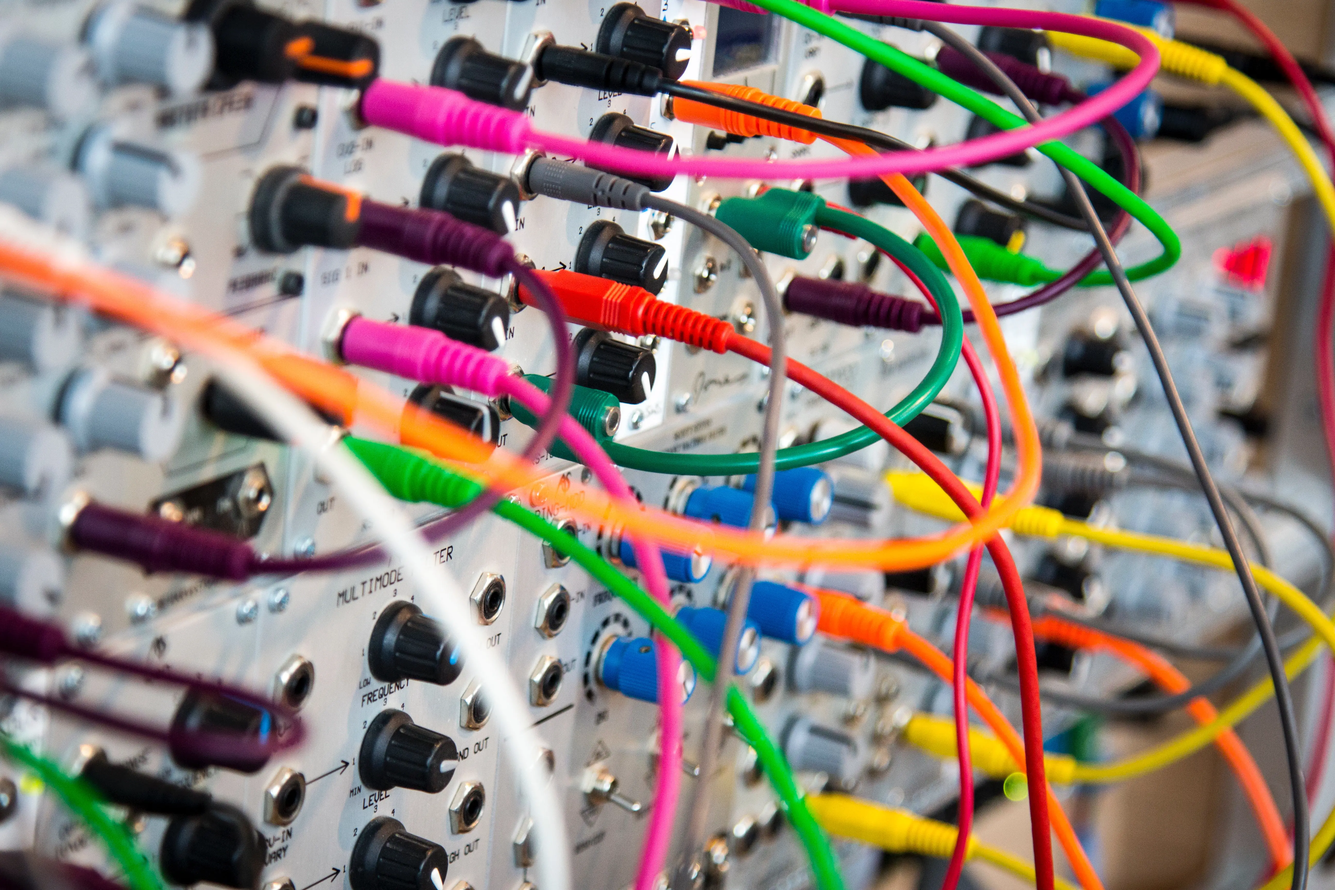
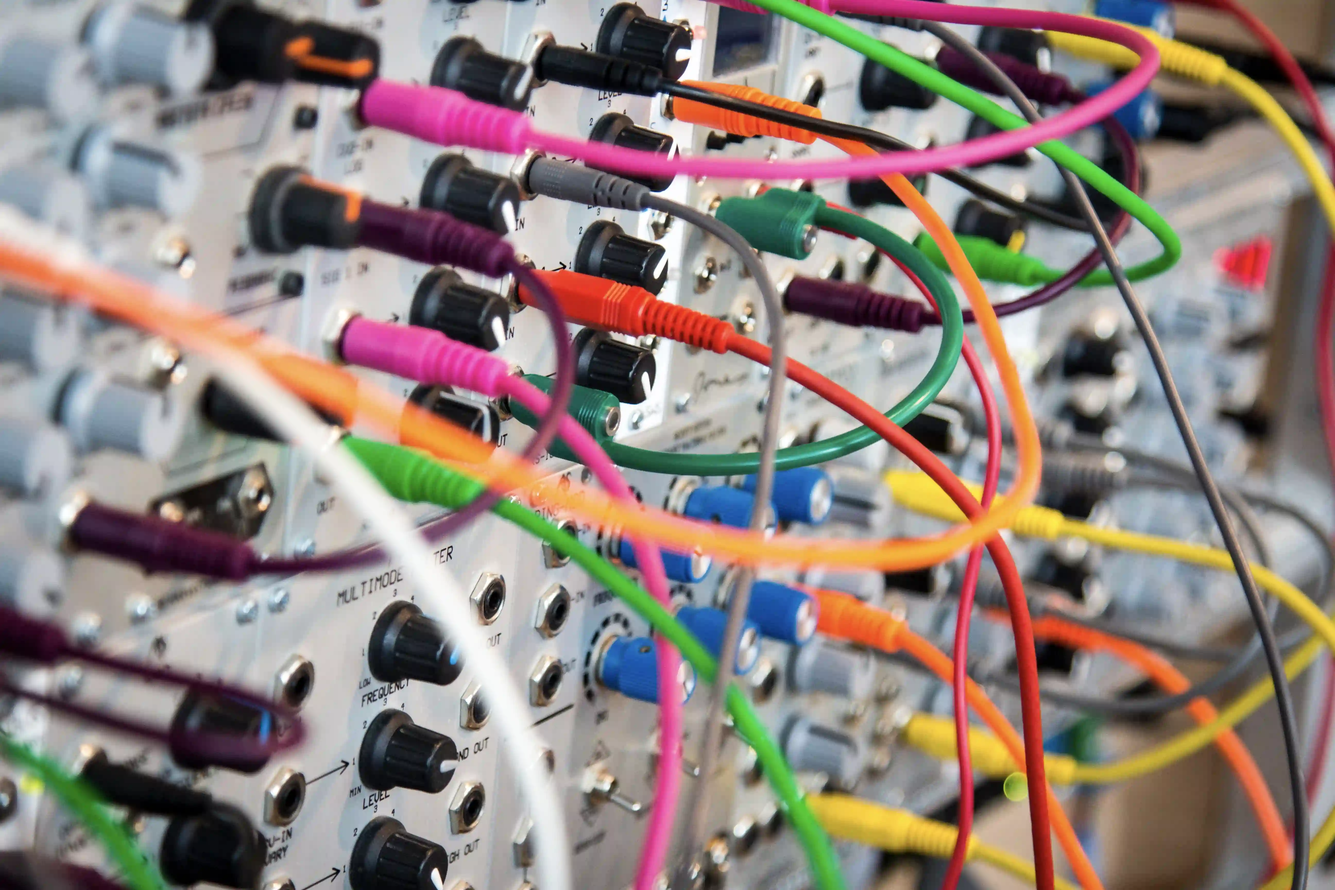
remove old pics

diff --git a/content/blog/organizing-asyncapi-documents.md b/content/blog/organizing-asyncapi-documents.md
@@ -6,7 +6,7 @@ tags:
   - AsyncAPI
   - Organization
   - Documents
-cover: /images/posts/organizing-asyncapi-documents.jpg
+cover: /images/posts/organizing-asyncapi-documents.webp
 authors:
     - name: Fran Méndez
       photo: /images/avatars/fmvilas.webp
